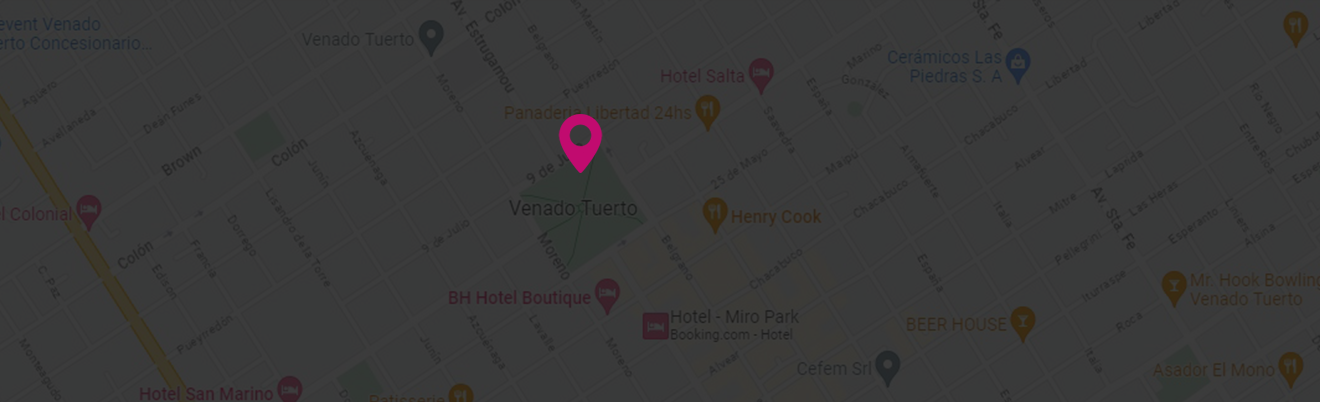
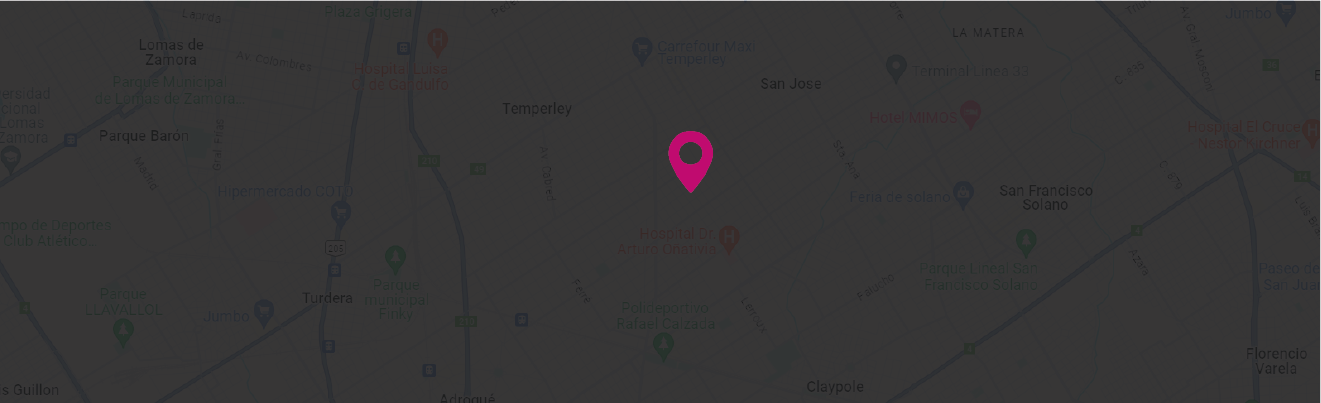
fix

diff --git a/src/pages/About.jsx b/src/pages/About.jsx
@@ -86,22 +86,21 @@ export default function About() {
                                 <p className="about__subheading">
                                     Hi, I am <span>Lucas Singh</span>
                                 </p>
-                                <h2 className="about__heading">a Data Science Specialist</h2>
+                                <h2 className="about__heading">Azure Data Engineer</h2>
                                 <div className="about__info">
                                     <PText>
-                                        I live in Venado Tuerto, a small city in the south of the province of
-                                        Santa Fe, Argentina.
+                                        I live in the south of Buenos Aires Province.
                                         <br /> <br />
                                         I started working as a front end web developer when I started my degree in Systems Engineering.
                                         In the last few years I discovered data analysis, business intelligence and decided to specialize in this area in order to bring new knowledge to decision making.
 
                                         <br />
                                         <br />
-                                        I am looking for my first job as a Data Scientist / Data Analyst in challenging projects in various domains such as e-commerce or financial sector.
+                                        I am looking for my first job as a Data Engineer / Data Analyst in challenging projects in various domains such as e-commerce or financial sector.
                                         I define myself as a curious, proactive and always eager to learn.
                                     </PText>
                                 </div>
-                                <ButtonPrimary btnText="Download CV" btnLink="https://drive.google.com/file/d/1HeWEWINDlpOwU5Ky3EA7fBt1kOIwLFuJ/view?usp=sharing" outline target={false}/>
+                                <ButtonPrimary btnText="Download CV" btnLink="https://drive.google.com/file/d/1Lv7kg6J5W_vMJ0B2_zMT3XvpAlsYjMFk/view?usp=sharing" outline target={false}/>
                             </Reveal>
                         </div>
                         <div className="right">
@@ -134,15 +133,15 @@ export default function About() {
 
                                 <AboutInfoItem
                                     title="Extraction:"
-                                    items={['SQL', 'Excel', 'AWS']}
+                                    items={['SQL', 'Excel']}
                                 />
                                 <AboutInfoItem
                                     title="Transformation"
-                                    items={['Python', 'R language']}
+                                    items={['Python', 'Databricks']}
                                 />
                                 <AboutInfoItem
                                     title="Visualisation"
-                                    items={['Poer BI', 'Tableau']}
+                                    items={['Power BI', 'Tableau']}
                                 />
                             </Reveal>
                         </div>
@@ -170,6 +169,24 @@ export default function About() {
                                     title="2015-2016"
                                     items={['Layout Designer', 'Arsayian Foundation']}
                                 />
+                            </Reveal>
+                        </div>
+                        <div className="about__info__item">
+                            <Reveal>
+                                <h1 className="about__info__heading">Certifications</h1>
+
+                                <AboutInfoItem
+                                    title="Microsoft Certified"
+                                    items={['Power BI Data Analyst Associate']}
+                                />
+                                <AboutInfoItem
+                                    title="Microsoft Certified"
+                                    items={['Azure Data Engineer']}
+                                />
+                                <AboutInfoItem
+                                    title="Microsoft Certified"
+                                    items={['Azure Data Fundamentals']}
+                                />                                
                             </Reveal>
                         </div>
                     </div>

diff --git a/src/assets/data/projects.js b/src/assets/data/projects.js
@@ -5,7 +5,7 @@ const projects = [
         category: 'Python',
         categoryId:1,
         subtitle: 'Uber analysis travels in NYC',
-        medium: true,
+        medium: false,
         git: true,
         link1:'https://github.com/lucassingh/project_01_uber_stats/',
         link2:'https://www.google.com/',
@@ -18,7 +18,7 @@ const projects = [
         category: 'Python',
         categoryId:2,
         subtitle: 'Bitcoin price analysis.',
-        medium: true,
+        medium: false,
         git: true,
         link1:'https://github.com/lucassingh/project_02_bitcoin_stats',
         link2:'https://www.google.com/',
@@ -44,7 +44,7 @@ const projects = [
         category: 'Python',
         categoryId:4,
         subtitle: 'COVID-19 stats around world.',
-        medium: true,
+        medium: false,
         git: true,
         link1:'https://github.com/lucassingh/project_04_covid-19_stats',
         link2:'https://www.google.com/',
@@ -109,7 +109,7 @@ const projects = [
         category: 'Tableau',
         categoryId:9,
         subtitle: 'Sales agent analitycs.',
-        medium: true,
+        medium: false,
         git: false,
         link1:'https://public.tableau.com/app/profile/lucas.singh/viz/04_superstore_project/04_superstore_project',
         link2:'https://www.google.com/',
@@ -122,7 +122,7 @@ const projects = [
         category: 'Tableau',
         categoryId:10,
         subtitle: 'Icidents of NYC stats.',
-        medium: true,
+        medium: false,
         git: false,
         link1:'https://public.tableau.com/app/profile/lucas.singh/viz/05_NY_inicidents_stats_project/05_NYC_incidents_stats_project',
         link2:'https://www.google.com/',
@@ -187,7 +187,7 @@ const projects = [
         category: 'Data Science',
         categoryId:15,
         subtitle: 'Analizing players of FIFA 19',
-        medium: true,
+        medium: false,
         git: true,
         link1:'https://github.com/lucassingh/fifa_stats',
         link2:'https://www.google.com/',
@@ -213,7 +213,7 @@ const projects = [
         category: 'Data Science',
         categoryId:17,
         subtitle: 'Movie recommender analysis.',
-        medium: true,
+        medium: false,
         git: true,
         link1:'https://github.com/lucassingh/03_movie-recommender',
         link2:'https://www.google.com/',

diff --git a/src/components/AboutSection.jsx b/src/components/AboutSection.jsx
@@ -92,13 +92,13 @@ const AboutSection = () => {
                             heading="About Me"
                         />
                         <PText>
-                            I'm a systems engineer specialised in Data Science, I live in Venado Tuerto, a small city in the south of the province of
-                            Santa Fe, Argentina. <br />
+                            I am a Systems Engineer with a focus on data analysis and Data Engineering. 
+                            I live in the south of Buenos Aires Province, Argentina. <br />
                             I am interested in working in challenging projects and collaborative teams.<br />
                             In this website you can download my CV, see my projects and contact me for future jobs, thank you very much for your visit!
                         </PText>
                         <div className="aboutSection__buttons">
-                            <ButtonPrimary btnText="Download CV" btnLink="https://drive.google.com/file/d/1HeWEWINDlpOwU5Ky3EA7fBt1kOIwLFuJ/view?usp=sharing" outline  target={false} />
+                            <ButtonPrimary btnText="Download CV" btnLink="https://drive.google.com/file/d/1Lv7kg6J5W_vMJ0B2_zMT3XvpAlsYjMFk/view?usp=sharing" outline  target={false} />
                         </div>
                     </div>
                 </Reveal>

diff --git a/src/components/Map.jsx b/src/components/Map.jsx
@@ -53,10 +53,10 @@ export default function Map() {
                 <div className="map__card">
                     <Reveal>
                         <h3 className="map__card__heading">I am here !</h3>
-                        <PText>Venado Tuerto, Santa Fe, Argentina</PText>
+                        <PText>Buenos Aires, Argentina</PText>
                         <a
                             className="map__card__link"
-                            href="https://goo.gl/maps/iJakYCMJZvQkbf1eA"
+                            href="https://maps.app.goo.gl/9cHJrskwJUYdmgTy7"
                             target="_blank"
                             rel="noreferrer"
                         >

diff --git a/src/components/ContactSection.jsx b/src/components/ContactSection.jsx
@@ -75,7 +75,7 @@ export default function ContactSection() {
                         <Reveal>
                             <ContactInfoItem icon={<MdLocalPhone />} text="+5493462565888" />
                             <ContactInfoItem icon={<MdEmail />} text="lucas.singh10@gmail.com" />
-                            <ContactInfoItem text="Venado Tuerto, Santa Fe,  Argentina" link='https://goo.gl/maps/iJakYCMJZvQkbf1eA' />
+                            <ContactInfoItem text="Buenos Aires, Argentina" link='https://maps.app.goo.gl/9cHJrskwJUYdmgTy7' />
                         </Reveal>
                     </div>
                 </div>

diff --git a/src/components/Footer.jsx b/src/components/Footer.jsx
@@ -59,9 +59,8 @@ export default function Footer() {
             <div className="container">
                 <div className="footer__col1">
                     <h1 className="footer__col1__title">Lucas Singh</h1>
-                    <PText>
-                        I'm a systems engineer specialised in Data Science. <br />
-                        thank you very much for your visit!
+                    <PText> <br />
+                        Thank you very much for your visit!
                     </PText>
                 </div>
                 <div className="footer__col2">

diff --git a/src/components/HeroSection.jsx b/src/components/HeroSection.jsx
@@ -159,7 +159,7 @@ const HeroSection = () => {
                         >
                             <h1 className="hero__heading">
                                 <span className="hero__name">Lucas Singh</span>
-                                <span>Data Scientist</span>
+                                <span>Data Engineer</span>
                             </h1>
                         </motion.div>
                         <motion.div
